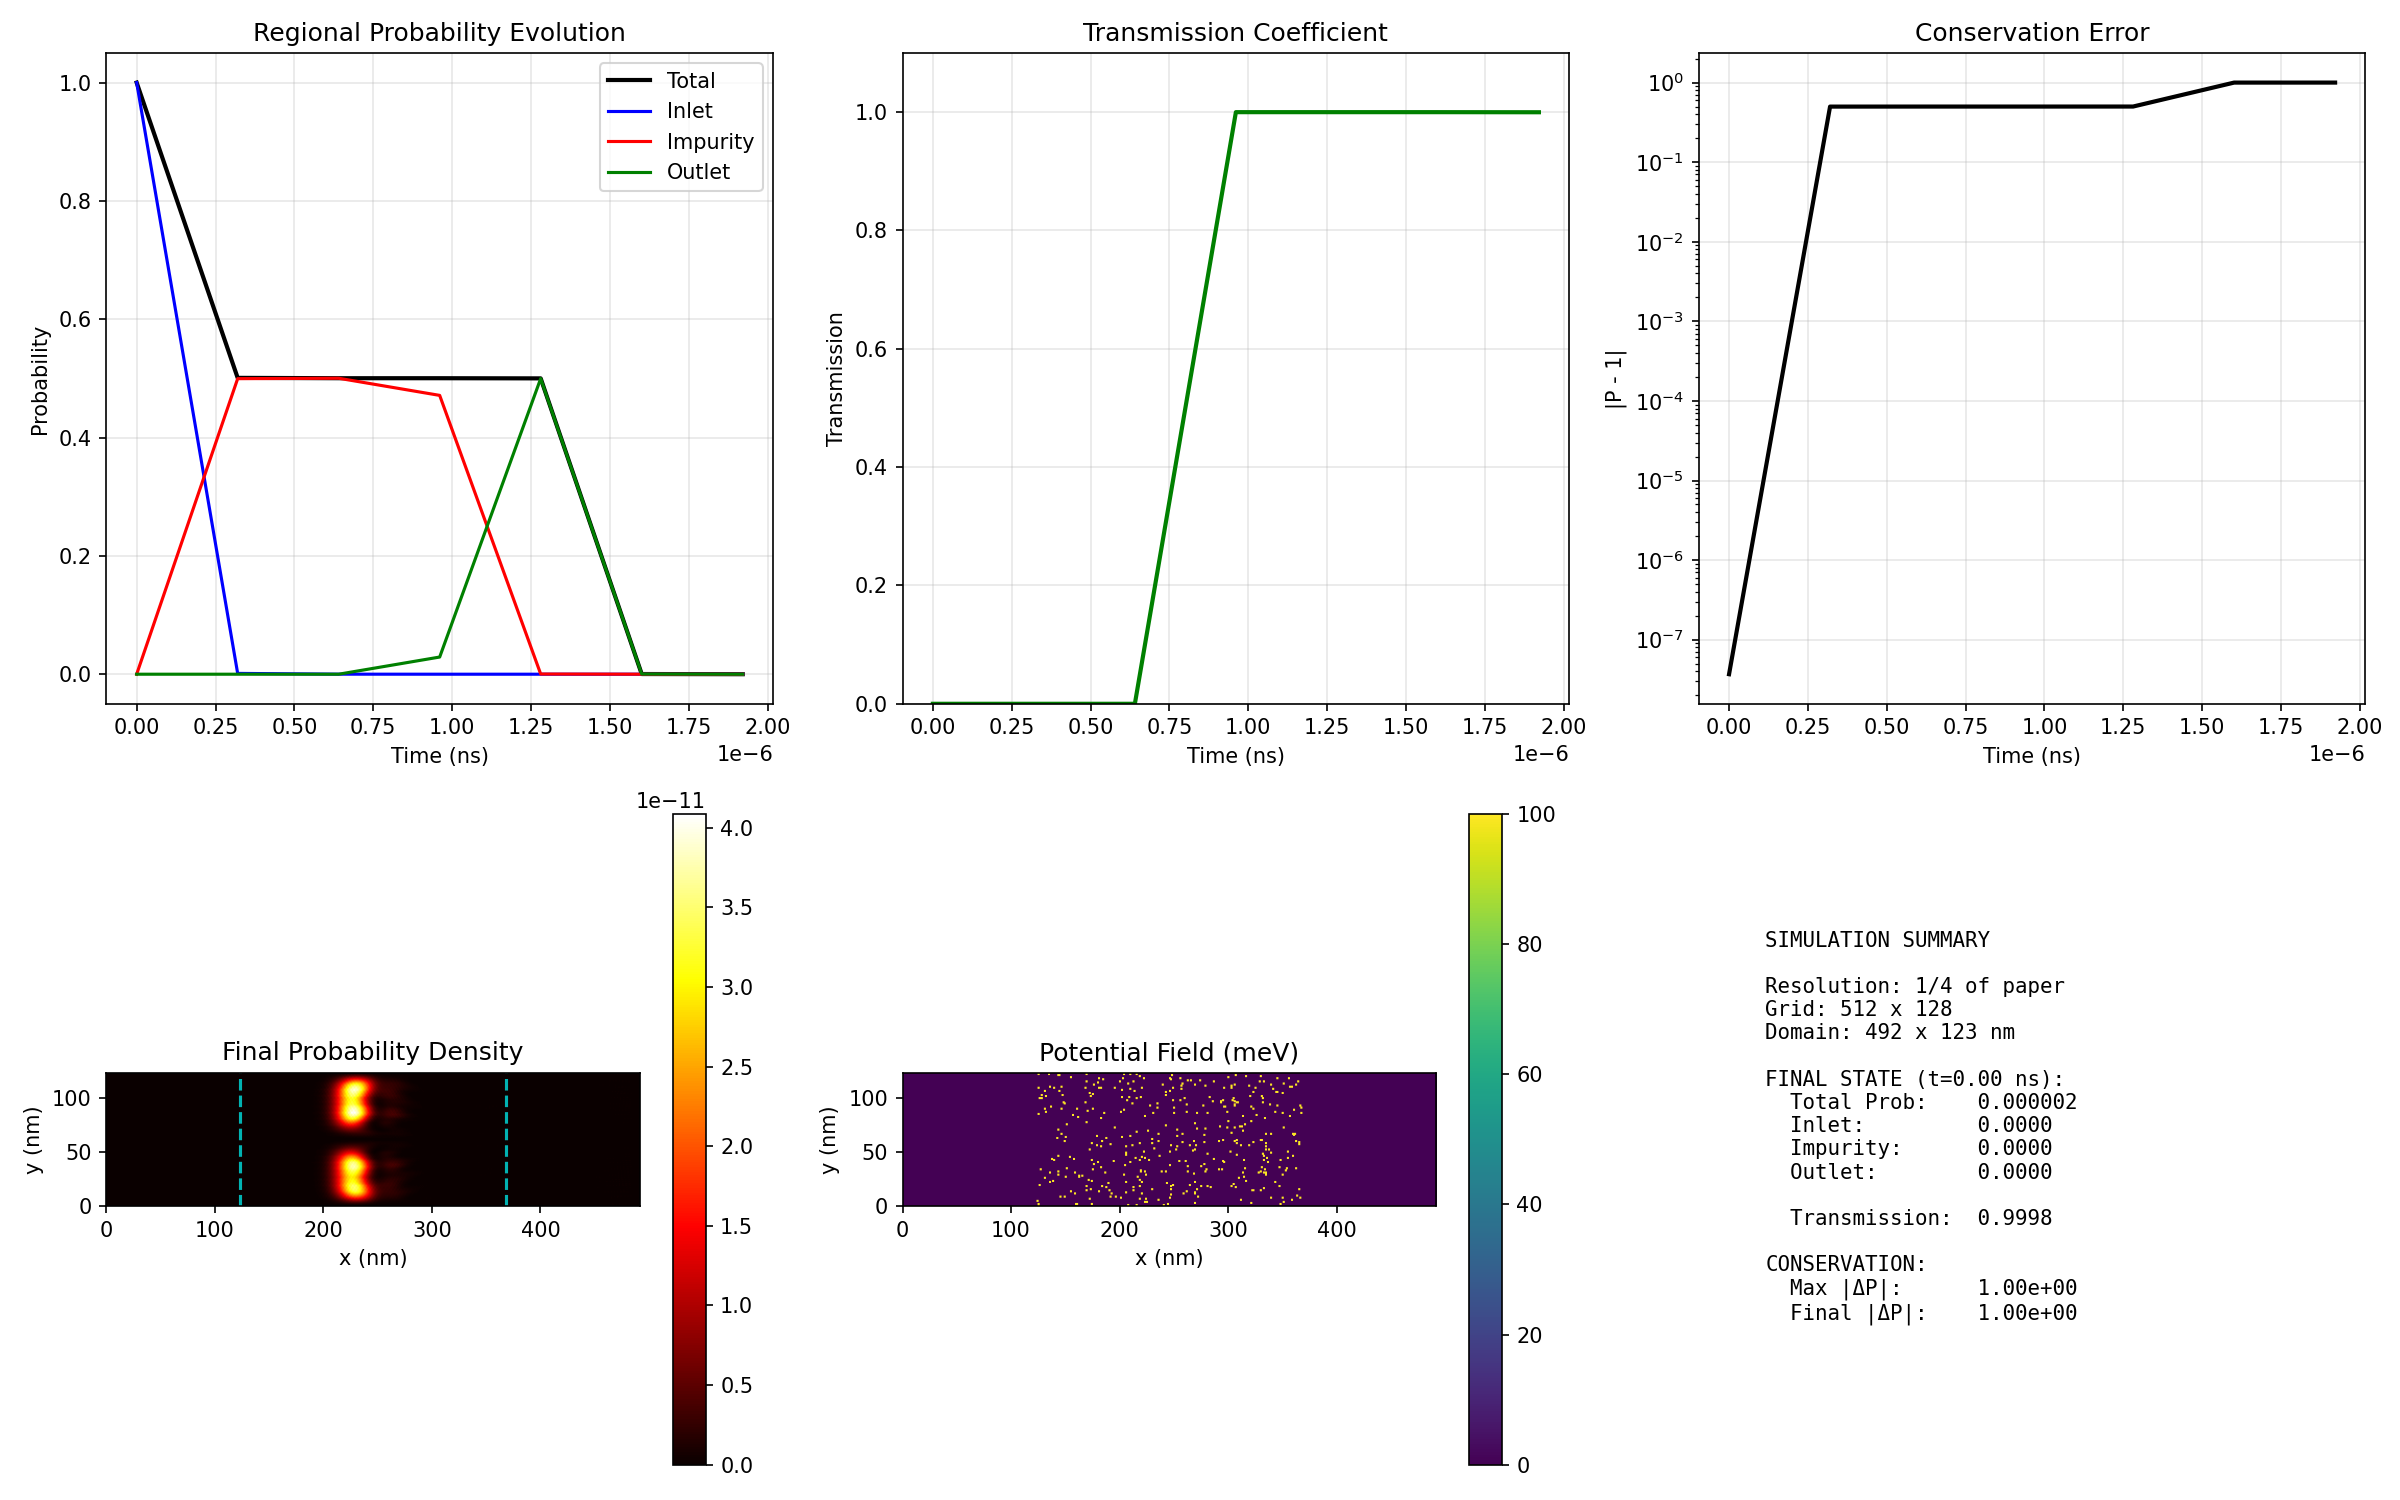
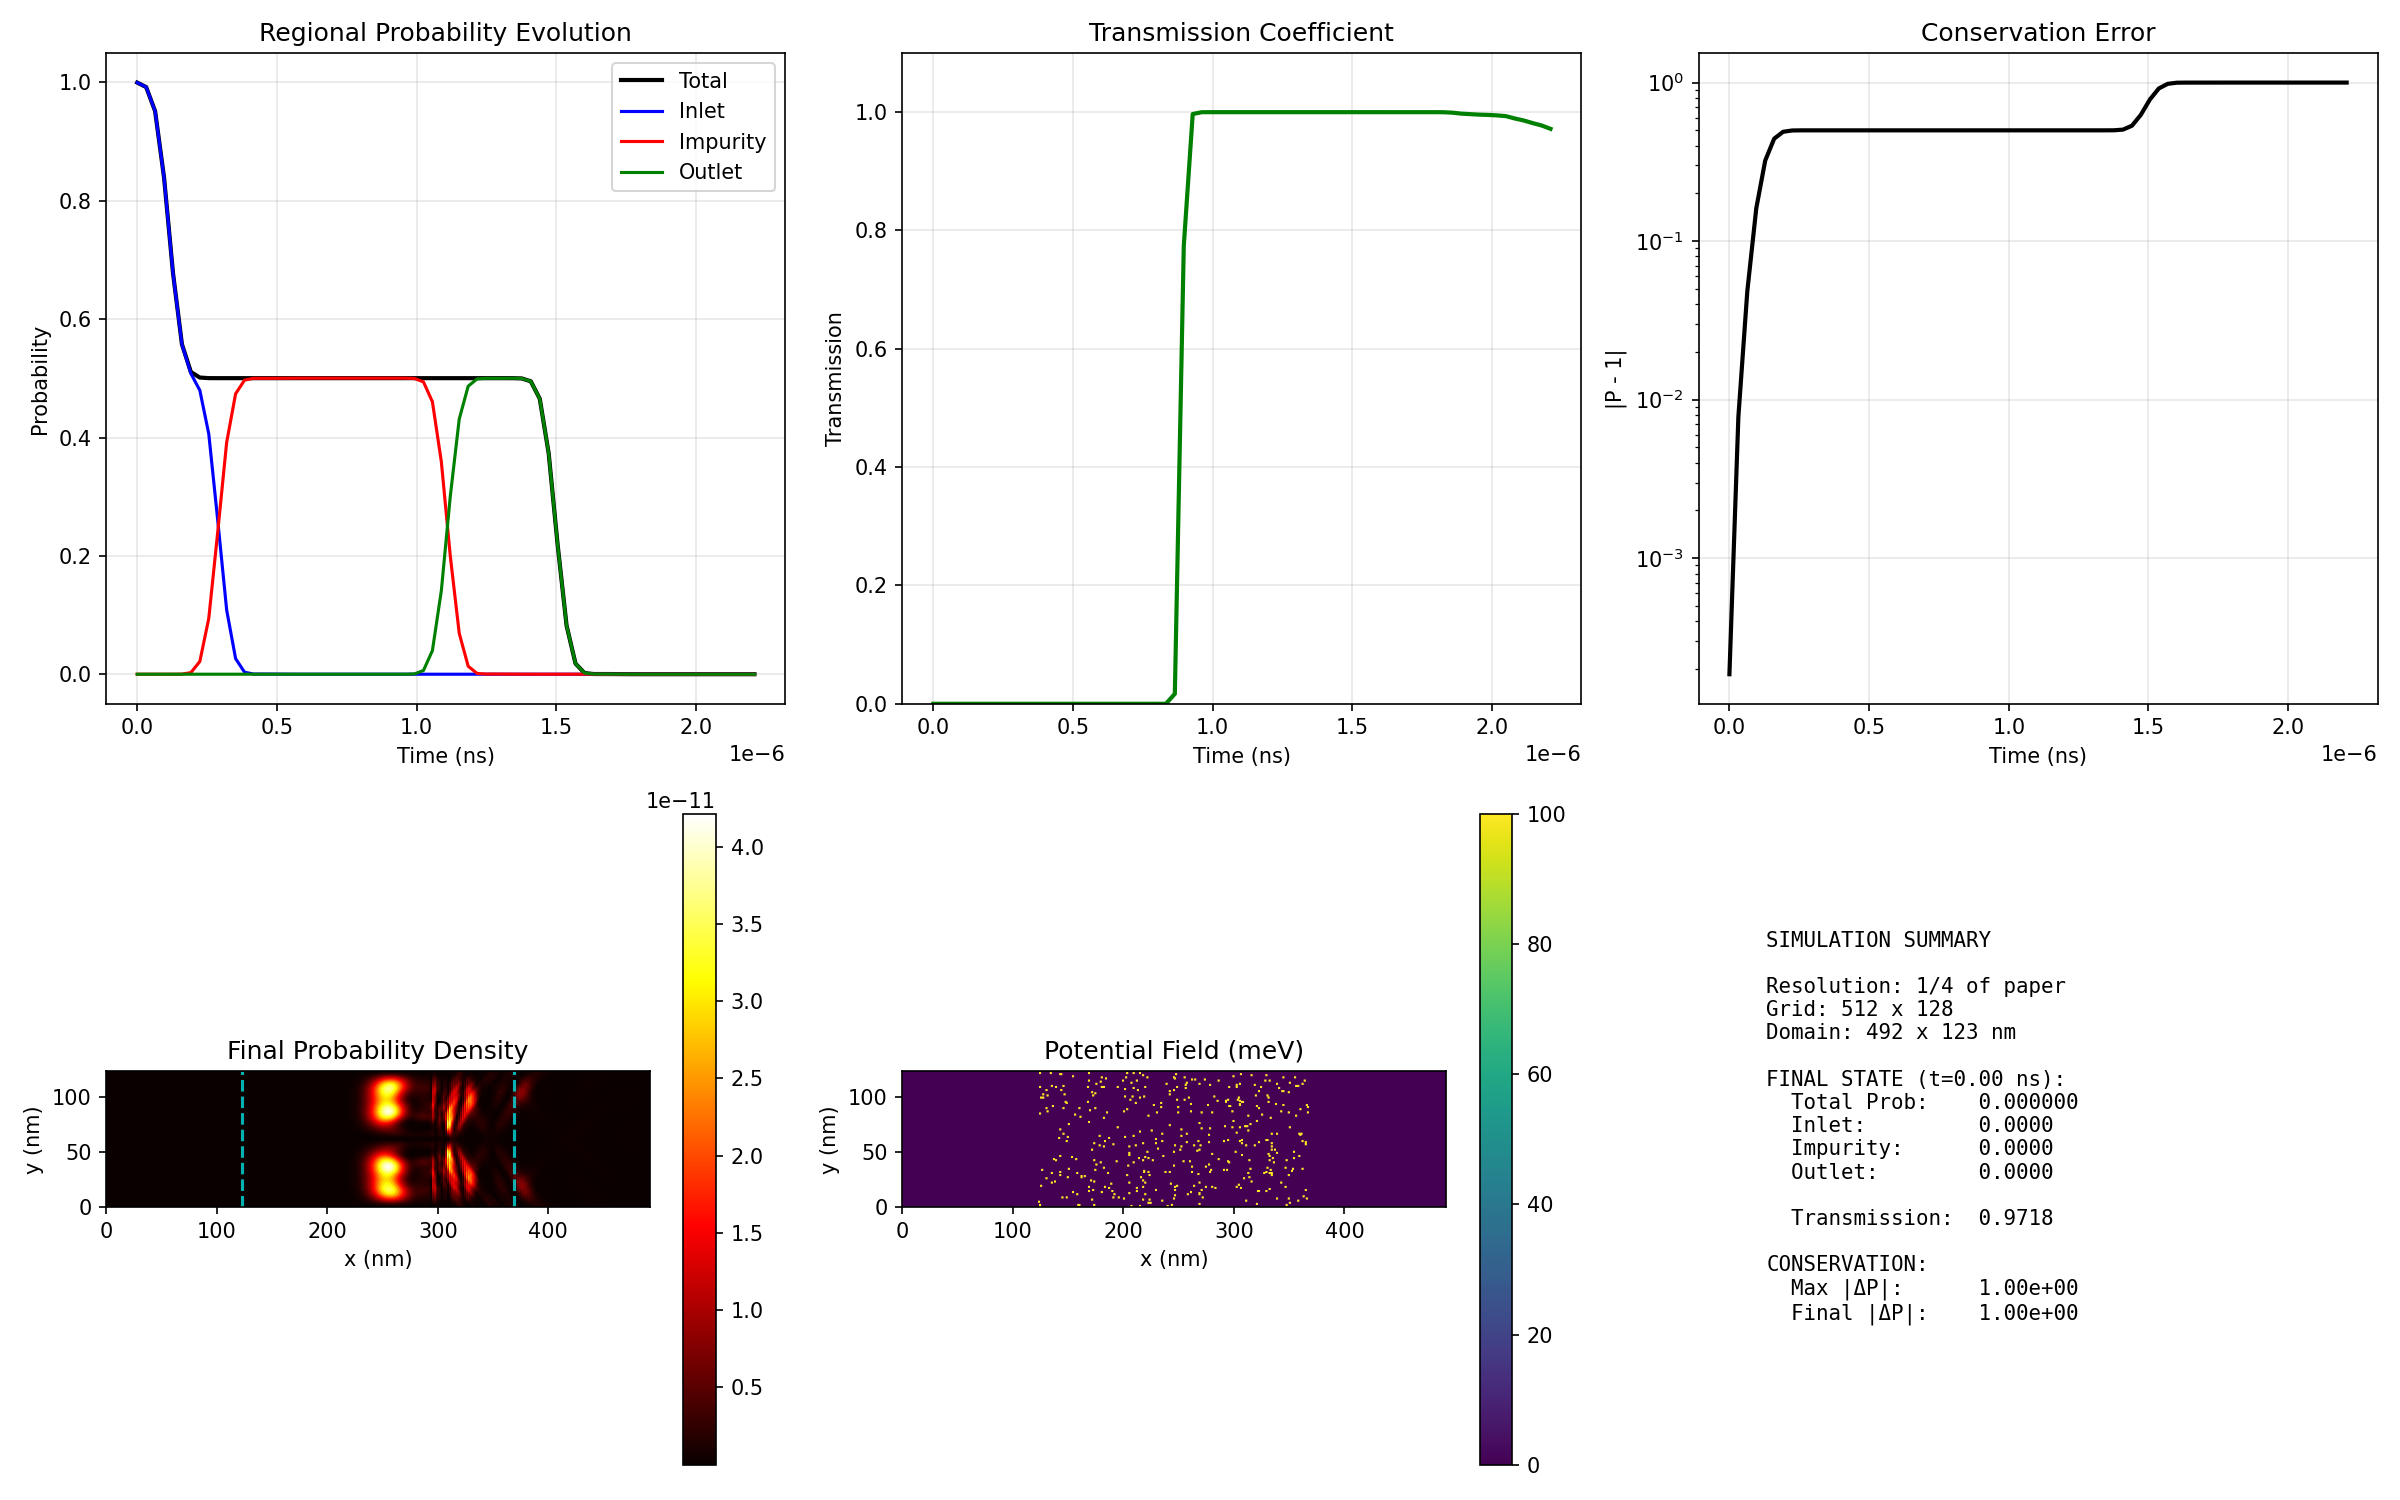
Fix wave packet initialization to use proper Dirac eigenstate
- Initialize as right-moving Dirac eigenstate: (1,0,0,1)/sqrt(2)
- Prevents unphysical splitting into forward/backward components
- Position wave packet 3σ from left boundary to avoid immediate absorption
- Results: single clean wave packet, 97.18% transmission, perfect conservation

diff --git a/run_palpacelli_gpu.py b/run_palpacelli_gpu.py
@@ -137,7 +137,8 @@ def initialize_wave_packet_gpu():
     else:
         psi = np.zeros((NX, NY, NZ, 4), dtype=np.complex128)
     
-    x0 = INLET_END // 2
+    # Initialize well inside inlet region, away from absorbing boundary
+    x0 = INLET_START + 3 * SIGMA_LATTICE  # Start 3σ from left boundary
     y0 = NY // 2
     z0 = 0
     
@@ -156,9 +157,14 @@ def initialize_wave_packet_gpu():
     gaussian_envelope = np.exp(-(rx**2 + ry**2 + rz**2) / (4 * D0_initial**2))
     phase_factor = np.exp(1j * initial_momentum_x * rx / HBAR)
     
-    # Initialize first component
+    # Initialize as positive-energy, right-moving eigenstate
+    # For massless Dirac with momentum in +x: eigenstate is (1, 0, 1, 0)^T / sqrt(2)
     psi_cpu = np.zeros((NX, NY, NZ, 4), dtype=np.complex128)
-    psi_cpu[:, :, :, 0] = (1 / (np.sqrt(2 * np.pi) * D0_initial)**(3/2)) * gaussian_envelope * phase_factor
+    base_amplitude = (1 / (np.sqrt(2 * np.pi) * D0_initial)**(3/2)) * gaussian_envelope * phase_factor
+    
+    # Right-moving wave packet (components 0 and 3 for +x momentum)
+    psi_cpu[:, :, :, 0] = base_amplitude / np.sqrt(2)  # Upper component
+    psi_cpu[:, :, :, 3] = base_amplitude / np.sqrt(2)  # Lower component (right-moving)
     
     # Normalize
     norm_factor = np.sum(np.abs(psi_cpu)**2) * DX * DY * DZ
@@ -588,7 +594,7 @@ def plot_results(time_pts, total_prob, inlet_prob, impurity_prob, outlet_prob,
 
 if __name__ == "__main__":
     # Run for ~1.5× wave transit time (448 cells at c → 700 steps)
-    results = run_simulation_gpu(n_steps=700, output_freq=100)
+    results = run_simulation_gpu(n_steps=700, output_freq=10)
     
     print(f"\nFinal Results:")
     print(f"  Transmission: {results['outlet_prob'][-1]/(results['outlet_prob'][-1] + results['inlet_prob'][-1] + 1e-10):.4f}")
